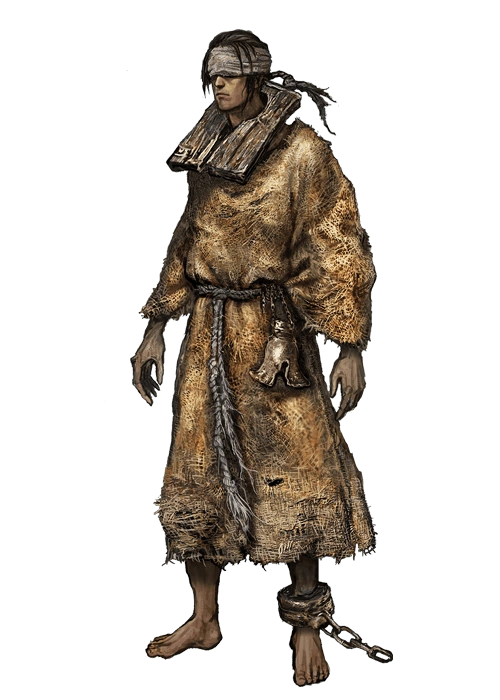
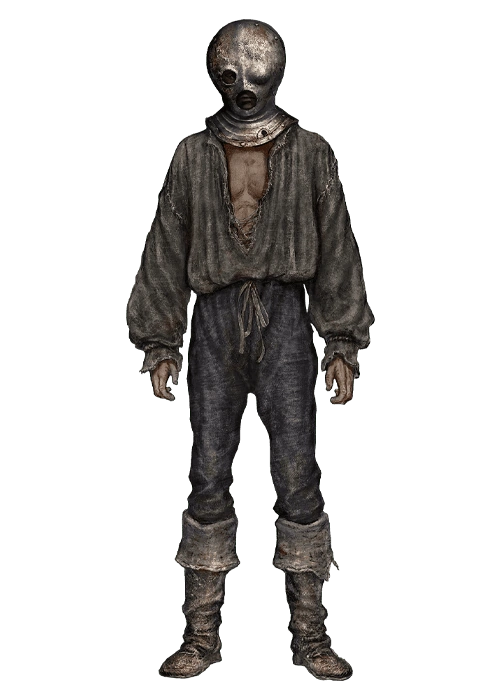
Changed some heroes, changed Duelist to Monk.

Changed region(s): [[0.24, 0.03, 0.78, 0.99]]

diff --git a/src/main/DungeonCharacter/Monk.java b/src/main/DungeonCharacter/Monk.java
@@ -1,0 +1,36 @@
+package main.DungeonCharacter;
+
+public class Monk extends Hero {
+    public Monk(final String theName) {
+        super(theName, 75, 20, 40, 7, 0.8, 0.4, "Fine Strike", "MonkImage.png");
+    }
+
+    @Override
+    void specialSkill(DungeonCharacter theTarget) {
+        // Fine Strike: does 40 to 60 points of damage but only has a 50% chance of succeeding.
+        // The target's chance to hit is permanently reduced if hit
+        //save current hit chance, min damage, max damage
+        System.out.println(getMyName() + " goes for a fine strike");
+        double currHitChance = this.getMyHitChance();
+        int currMinDam = this.getMyMinDam();
+        int currMaxDam = this.getMyMaxDam();
+
+        //update with special skill changes
+        this.setMyHitChance(0.5);
+        this.setMyMinDam(40);
+        this.setMyMaxDam(60);
+
+
+        //call attack - attacks only once
+        int fineStrikeRoll = attackValue(theTarget);
+        if (fineStrikeRoll > 0) {
+            System.out.println(theTarget.getMyName() + " chance to hit has been reduced");
+            theTarget.setMyHitChance(Math.min(0.1, theTarget.getMyHitChance() * (double)(2/3)));
+        }
+
+        //set values back
+        this.setMyHitChance(currHitChance);
+        this.setMyMinDam(currMinDam);
+        this.setMyMaxDam(currMaxDam);
+    }
+}

diff --git a/src/main/DungeonMain/DungeonAdventure.java b/src/main/DungeonMain/DungeonAdventure.java
@@ -52,7 +52,7 @@ public class DungeonAdventure implements Serializable {
         System.out.println("To play the Barbarian: 4");
         System.out.println("To play the Mage: 5");
         System.out.println("To play the Swordsman: 6");
-        System.out.println("To play the Duelist: 7");
+        System.out.println("To play the Monk: 7");
         System.out.println("To play the Samurai: 8");
         System.out.println("To play the Occultist: 9");
         theClass = scan.next();
@@ -93,8 +93,14 @@ public class DungeonAdventure implements Serializable {
     public int dungeonSizePrompt() {
         int theSize;
         System.out.println("Enter the size of your dungeon; The number inputted is for rows and columns");
+        System.out.println("Number be a minimum of 3, and a maximum of 10");
         Scanner scan = new Scanner(System.in);
         theSize = scan.nextInt();
+        while (theSize < 3 || theSize > 10) {
+            System.out.println("Invalid Input. Try Again");
+            System.out.println("Number be a minimum of 3, and a maximum of 10");
+            theSize = scan.nextInt();
+        }
         return theSize;
     }
 

diff --git a/src/main/Controller.java b/src/main/Controller.java
@@ -4,7 +4,6 @@ import main.DungeonCharacter.*;
 import main.DungeonMain.*;
 
 import java.io.*;
-import java.nio.Buffer;
 import java.util.Random;
 import java.util.Scanner;
 
@@ -46,8 +45,8 @@ public class Controller implements Serializable{
                 myHero = new Swordsman(theName);
                 myGameDone = false;
                 break;
-            case 7: // duelist
-                myHero = new Duelist(theName);
+            case 7: // Monk
+                myHero = new Monk(theName);
                 myGameDone = false;
                 break;
             case 8: // samurai
